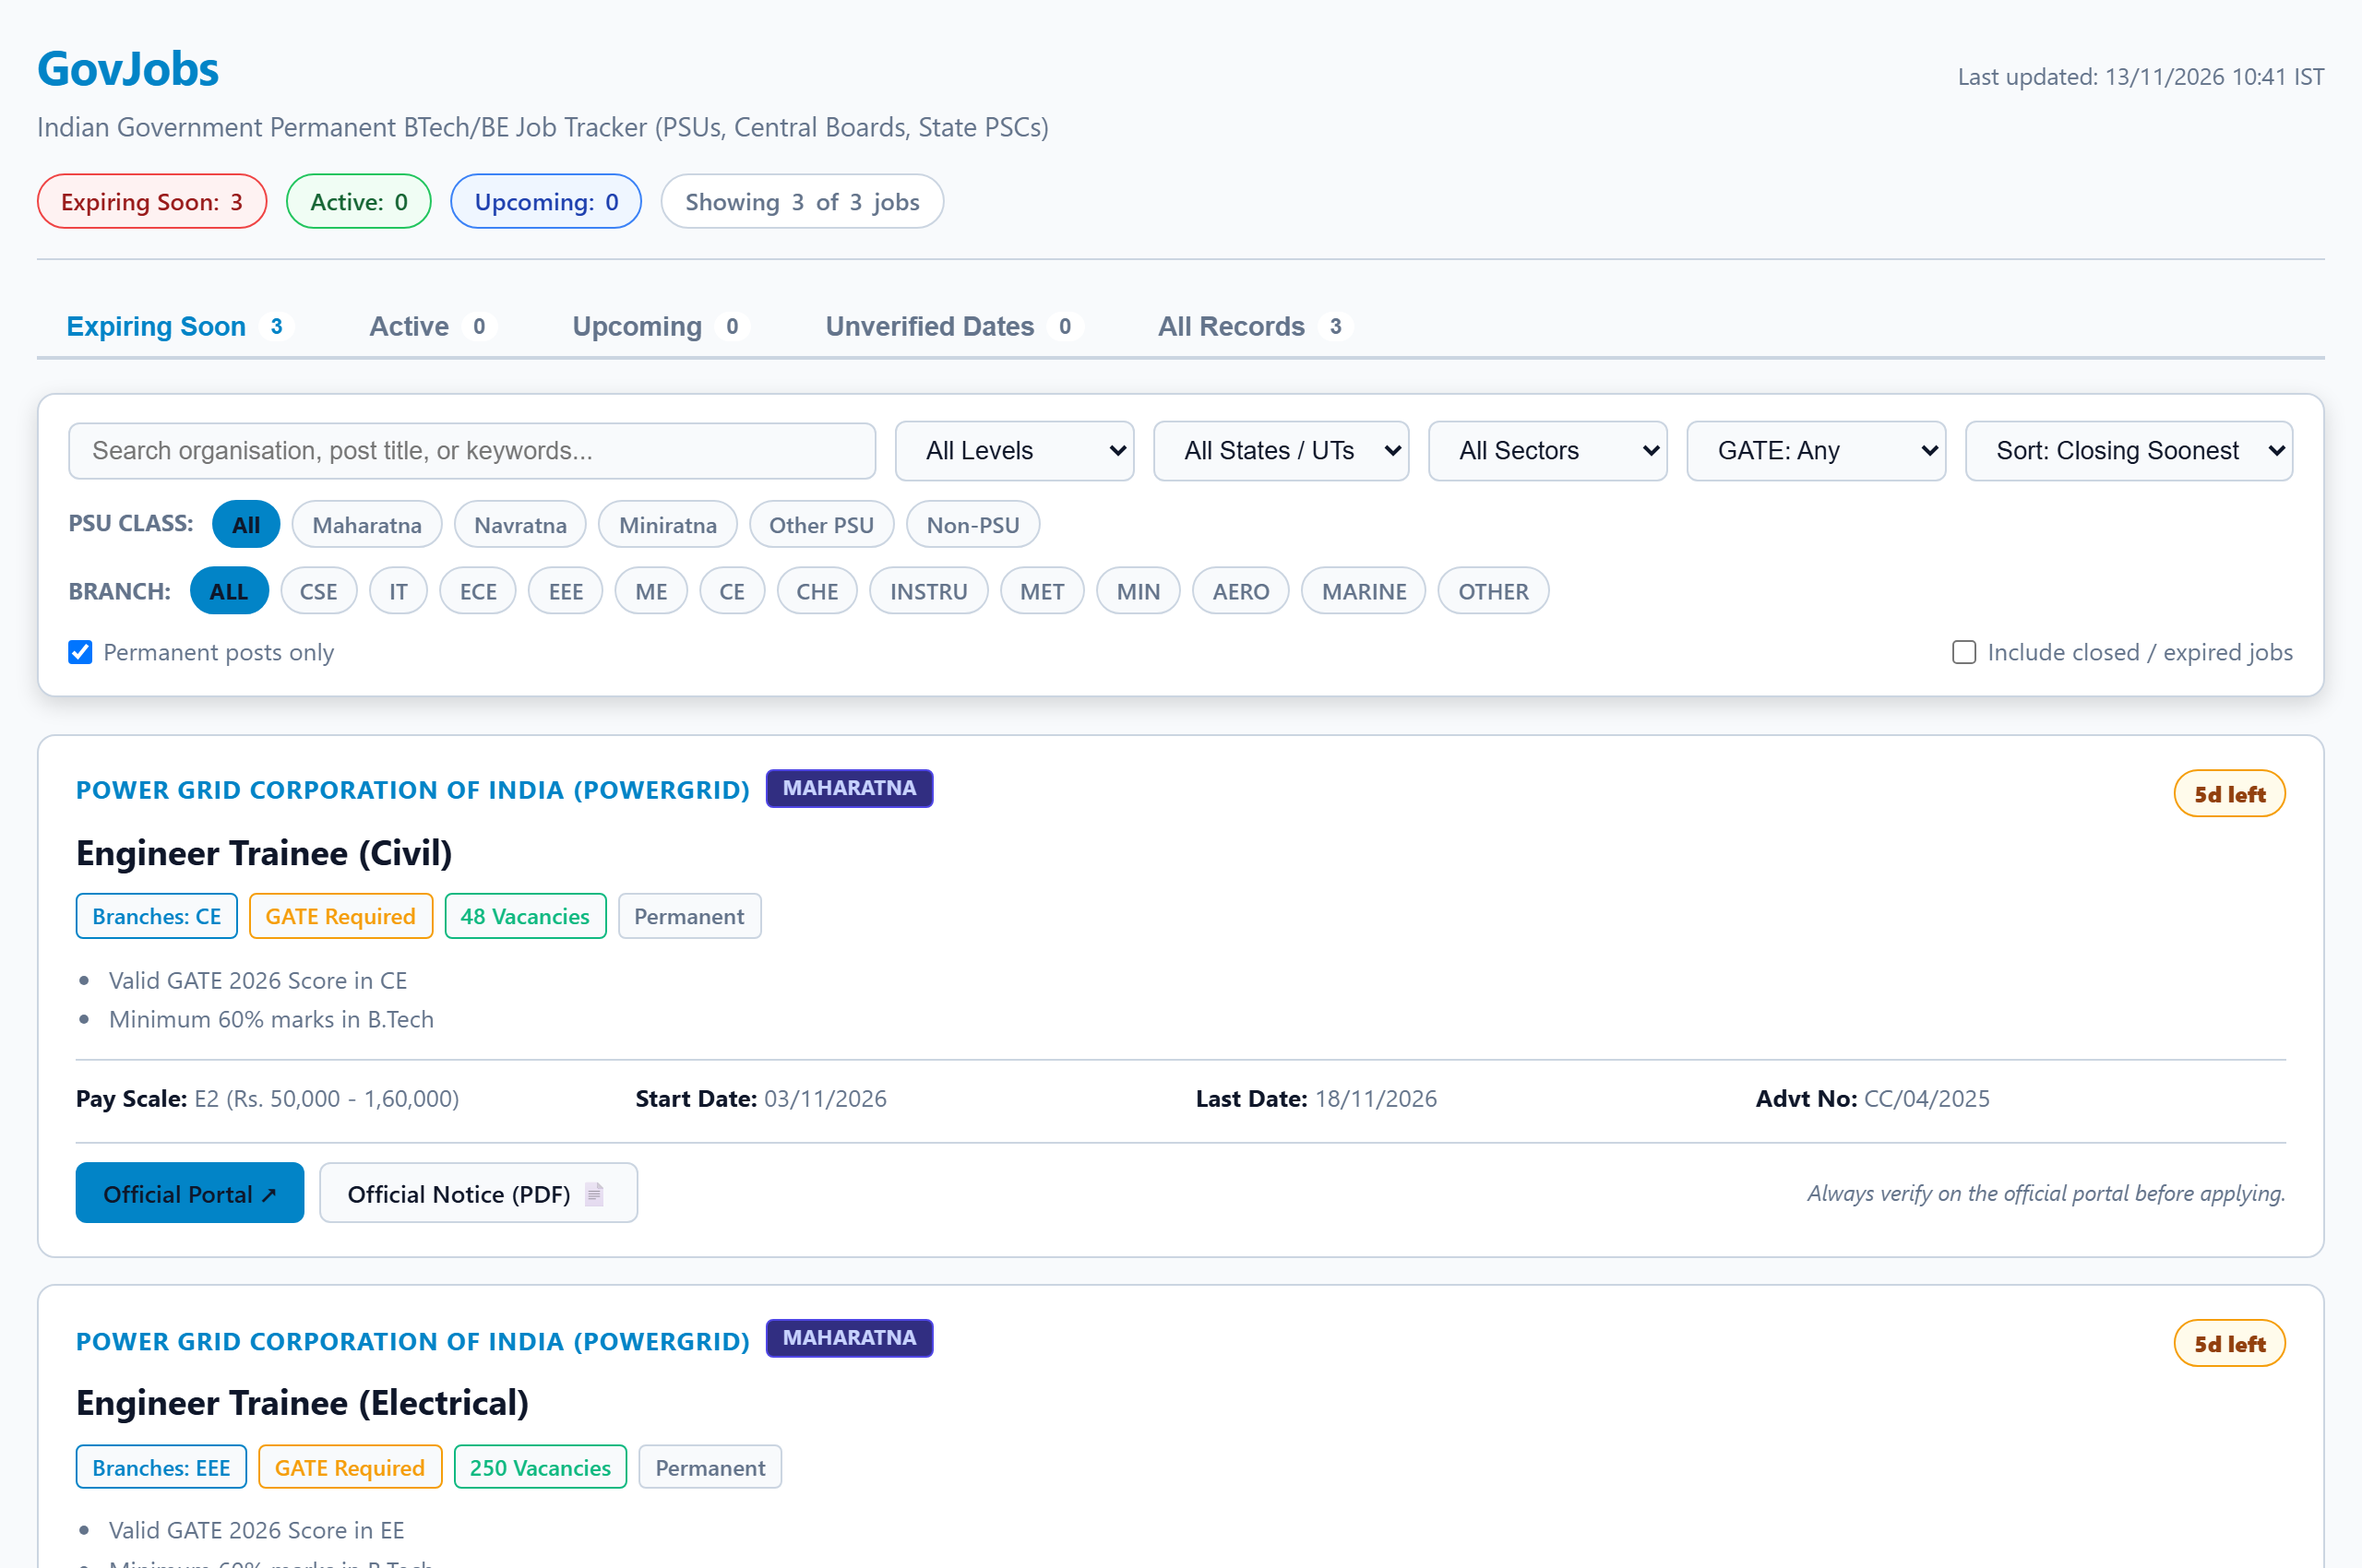
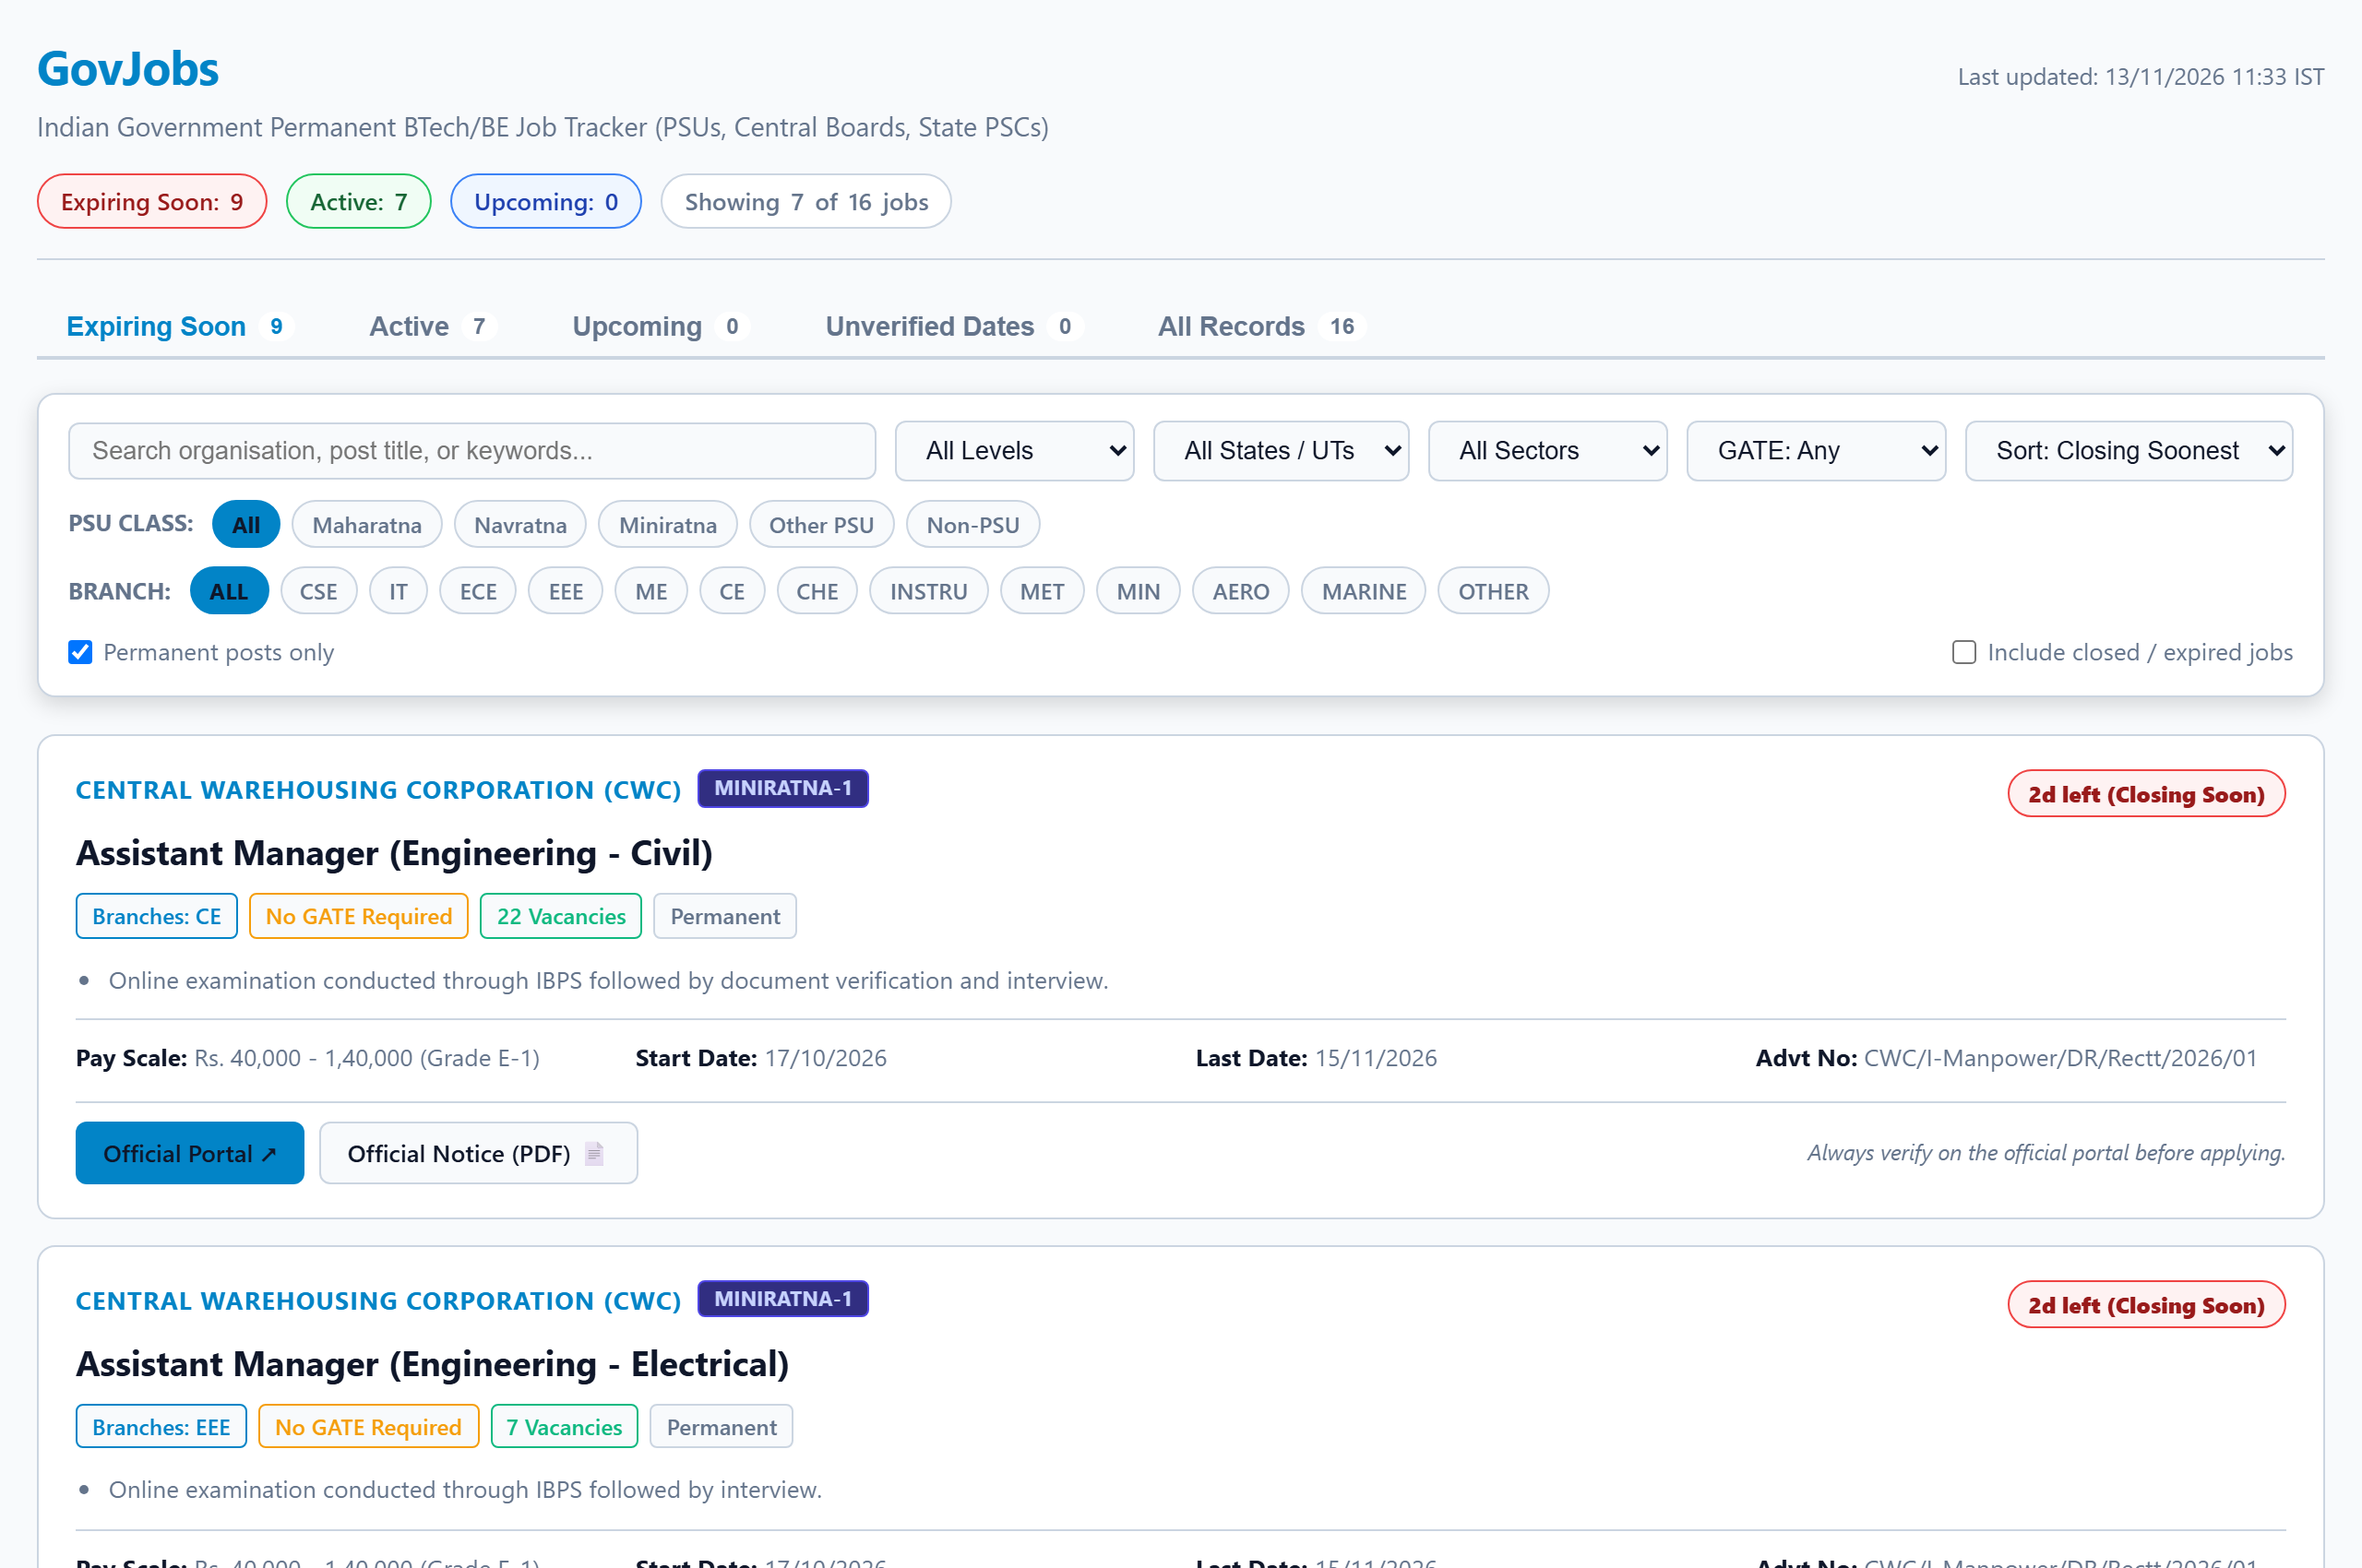
feat: scale discovery with IndGovtJobs Engineers hub & ingest active PSU jobs

diff --git a/govjobs/scrapers/pdf_notice.py b/govjobs/scrapers/pdf_notice.py
@@ -37,6 +37,10 @@ def extract_smart_pdf_text_from_bytes(pdf_bytes: bytes, max_pages: int = 12) -> 
         for i in range(min(4, total_pages)):
             selected_indices.add(i)
 
+        # Always select the last page (often contains Important Dates and signature)
+        if total_pages > 0:
+            selected_indices.add(total_pages - 1)
+
         # Scan remaining pages for keywords
         for i in range(4, total_pages):
             if len(selected_indices) >= max_pages:
@@ -67,6 +71,16 @@ def extract_pdf_from_url(url: str, verify_ssl: bool = True, timeout: float = 30.
             else:
                 logger.warning(f"Failed to download PDF {url}: status {resp.status_code}")
                 return None
+    except (httpx.ConnectError, httpx.RequestError) as e:
+        # Fallback with verify=False for Indian Govt/PSU custom cert chains
+        try:
+            with httpx.Client(timeout=timeout, verify=False, follow_redirects=True) as client:
+                resp = client.get(url)
+                if resp.status_code == 200 and resp.content:
+                    return extract_smart_pdf_text_from_bytes(resp.content)
+        except Exception as e2:
+            logger.error(f"Error fetching PDF {url} with verify=False: {e2}")
+            return None
     except Exception as e:
         logger.error(f"Error fetching PDF {url}: {e}")
         return None

diff --git a/govjobs/psu.py b/govjobs/psu.py
@@ -97,7 +97,9 @@ def sync_psu_registry(
         acronym_match = re.search(r"\((.*?)\)", raw_name)
         if acronym_match:
             acronym = acronym_match.group(1).strip()
-            if len(acronym) >= 2:
+            # Ignore parenthetical words that are not genuine acronyms (e.g. (India))
+            stop_acronyms = {"india", "limited", "ltd", "company", "co", "corporation", "central", "state", "national"}
+            if len(acronym) >= 2 and acronym.lower() not in stop_acronyms:
                 aliases.append(acronym)
             clean_name = re.sub(r"\(.*?\)", "", raw_name).strip()
         else:
